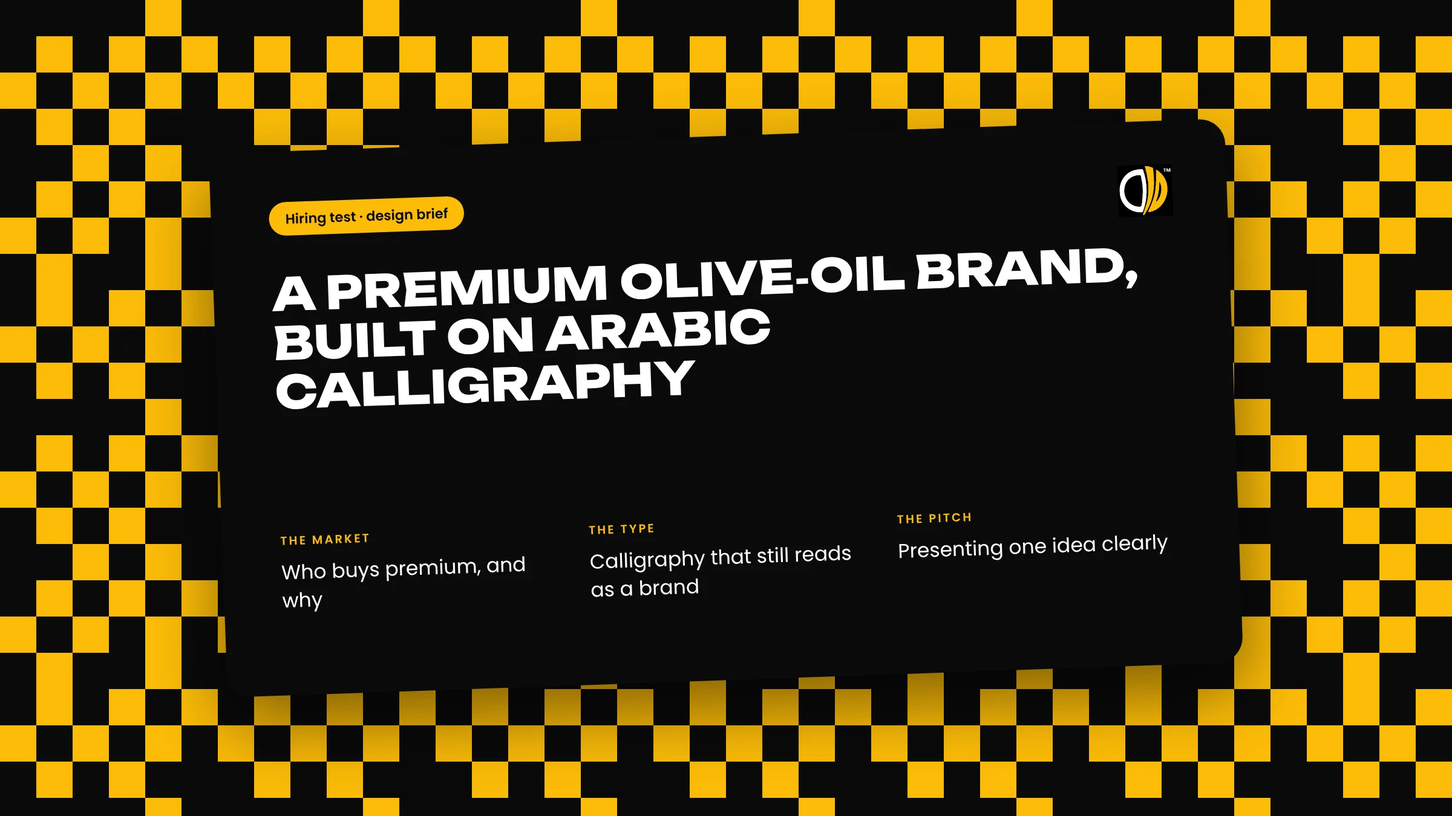
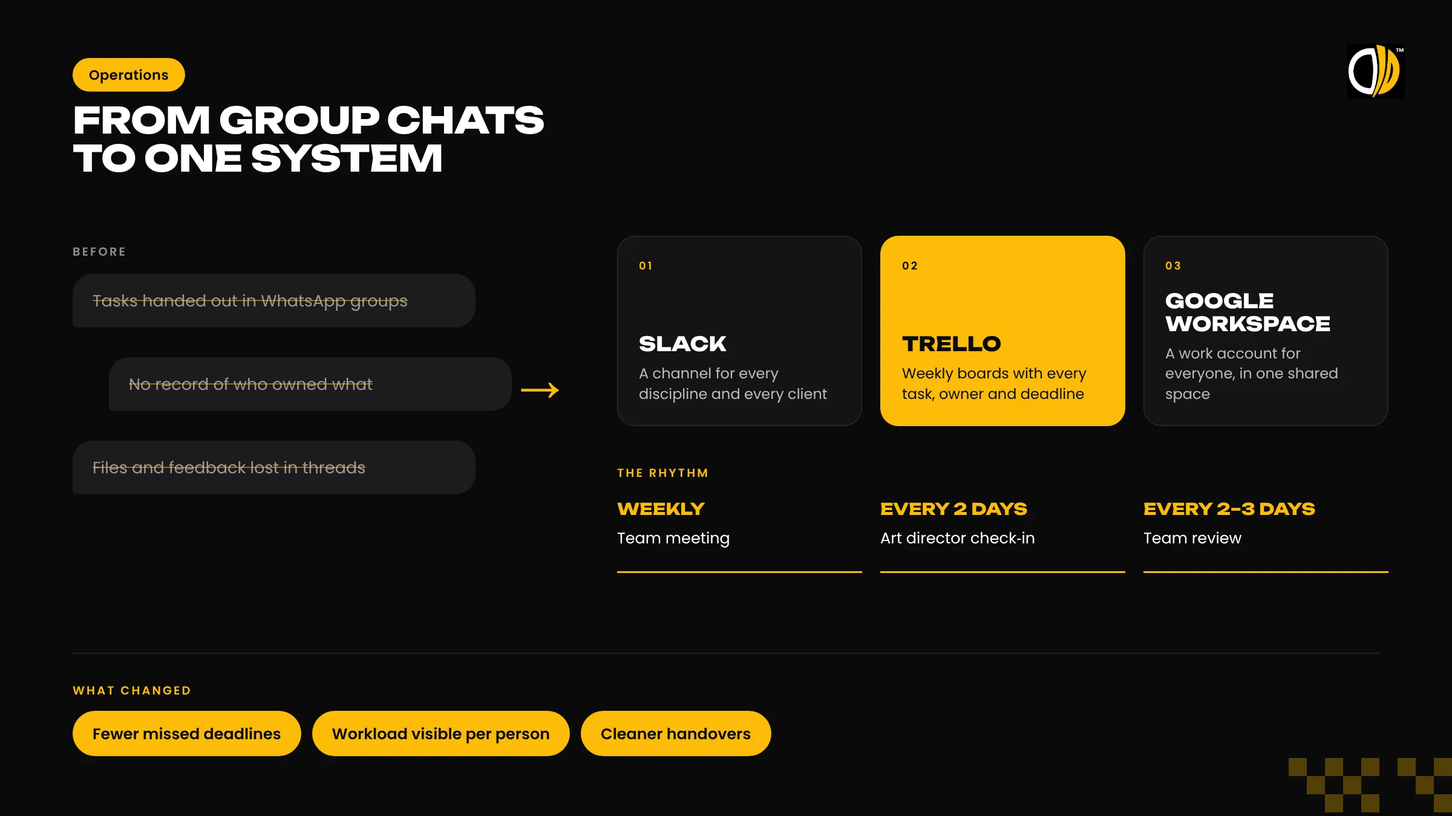
About and Overpowered: voice-led rewrite approved by Amr; drop outreach figure; align result bullets
Claude-Session: https://claude.ai/code/session_0137XXpZA3jAMF7ZDAPuorpn

diff --git a/lib/projects.ts b/lib/projects.ts
@@ -70,8 +70,8 @@ export const caseStudies: CaseStudy[] = [
   {
     slug: "overpowered",
     title: "Overpowered",
-    subtitle: tp("Turning a six-person studio into a 25-person agency in seven months"),
-    impactStatement: tp("Grew the team from 6 to 25 in seven months · Repositioned for small and mid-sized businesses · Won SPLT, a four-sided fitness platform, and led its product design"),
+    subtitle: tp("From a studio that served everyone to an agency that knew exactly who it was for"),
+    impactStatement: tp("Repositioned around the clients it served best · Team grown from six to twenty-five · Secured SPLT with a rebuilt proposal and led its design"),
     client: tp("Overpowered\nCreative & digital agency, London"),
     role: tp("Creative Director\nReported to the CEO · Team of 25"),
     teamSize: tp("Art directors plus graphic, video, 3D, copy and UX/UI teams"),
@@ -95,15 +95,15 @@ export const caseStudies: CaseStudy[] = [
       { title: "Identity & website direction", description: tp("Directed the new identity, dropped the gun imagery and tested visual elements in small Instagram campaigns in the UAE, the UK and Egypt. Then directed five website concepts with the team.") },
     ],
     results: [
-      tp("Grew the team from 6 to 25 people in seven months, across five disciplines"),
-      tp("Won SPLT, a four-sided fitness platform, with a rebuilt scope and cost, and led its product design"),
-      tp("Repositioned the agency for small and mid-sized businesses, with OP Labs for product buyers"),
-      tp("Moved delivery from WhatsApp to Slack, Trello and Google Workspace, with fewer missed deadlines"),
-      tp("Built an outreach system the team ran without me, tracked lead by lead in a CRM"),
-      tp("Replaced the brand with an identity that ran for about a year"),
-      tp("Refocused Alfy’s campaigns on the architects who buy marble, lifting social engagement 70%"),
+      tp("Repositioned the agency around the small and mid-sized businesses it served best, with OP Labs for product buyers"),
+      tp("Grew the team from six to twenty-five across five disciplines"),
+      tp("Secured SPLT with a rebuilt proposal, and led its product design"),
+      tp("Gave twenty-five people one way of working, across Slack, Trello and Google Workspace"),
+      tp("Built an outreach system the team could run on its own"),
+      tp("Retired the old brand for an identity that carried the agency for a year"),
+      tp("Refocused Alfy’s campaigns on the architects who choose marble, lifting social engagement by 70%"),
     ],
-    reflection: tp("I was hired to lead the creative work and spent half my time building the business around it. That half is what let the work get good. An agency does its best work once it knows who it serves, how it wins them and how its people work together."),
+    reflection: tp("I was brought in as a creative director and spent half my time on the business around the creative work. I wouldn’t change that. Great work rarely comes from talent alone. It comes when an agency knows who it serves, how to reach them and what standard it holds itself to, and then gives its people room to rise to it."),
     credits: tp("Creative Direction & Agency Strategy: Amr Abu-Talleb · Art Direction & Design: the Overpowered team"),
     featured: true,
     featureImage: "/images/op-hero-v1.webp",
@@ -117,32 +117,33 @@ export const caseStudies: CaseStudy[] = [
       {
         label: "The brief",
         paragraphs: [
-          tp("Overpowered was a six-person creative studio, registered in London and working across the UK, the UAE and Egypt. Its CEO wanted a full-service agency, and his first plan was a global operation of more than forty people from day one."),
-          tp("I advised against it before I joined. I modelled the first six to twelve months to breakeven and proposed an agency that would earn its way to that size. When the CEO was ready, he hired me as Creative Director, reporting to him, to build that agency without interrupting the client work that paid for it."),
+          tp("Overpowered was a small design studio, registered in London and working across the UK, the UAE and Egypt, led by an ambitious CEO who wanted a global agency of more than forty people. Our conversations began two years before I joined. Together we shaped a plan that would let the agency grow into that vision. I mapped what the first six to twelve months would cost before it could stand on its own, and proposed a path that scaled with its success."),
+          tp("When the CEO was ready, he invited me in as Creative Director, working directly with him, to build that agency while the studio kept serving its clients."),
         ],
       },
       {
-        label: "The audit",
+        label: "What I found",
         paragraphs: [
-          tp("I read the agency the way a buyer would. The homepage claimed ten years of product development and showed empty service cards. Six services, from branding to AI data analysis, were offered to anyone. The gun imagery that ran through the brand ruled out paid ads in the EU and put off the corporate clients the agency wanted in Dubai."),
-          tp("Inside, work was assigned and reported in WhatsApp groups, so nobody could see who owned what. There was no asset library, no hiring process, no outreach plan and no shared standard for good work."),
+          tp("I began the way a client would, by looking. The website promised ten years of design-driven product development, then showed empty service cards where the work should have been. It offered six services, from branding to AI data analysis, to anyone who might need them, under a headline about digital dominance that could have belonged to any studio. The brand leaned on gun imagery, which closed the door on paid advertising in the EU and on the corporate clients the agency hoped to win in Dubai."),
+          tp("Behind the scenes, the team took its tasks from WhatsApp groups, so no one could see who was doing what. There was no asset library, no hiring process, no plan for finding clients and no shared idea of what good work looked like."),
         ],
         figures: [
           { images: [{ src: "/images/op-fig-01-v5.webp", alt: tp("The audit: six findings beside the old Overpowered homepage and its empty service cards, December 2024") }], caption: tp("The site as I found it, December 2024.") },
         ],
       },
       {
-        label: "The call",
-        lead: tp("The problem wasn’t the logo. Overpowered was selling everything to everyone."),
+        label: "The turning point",
+        lead: tp("The problem wasn’t the logo. Overpowered was trying to be everything to everyone."),
         paragraphs: [
-          tp("So the brand would come last. First the agency needed a buyer, a focused offer and a way to win work beyond the CEO’s contacts. Each recommendation reached the CEO as an investment case, with its cost, the people it needed and what the next quarter would deliver."),
+          tp("A new identity would only have dressed up the same confusion. The agency first needed to know who it was for, what it did best and how it would find those clients on its own. Everything else, the brand included, would follow from those answers."),
+          tp("Every proposal I brought to the CEO came with its cost, the people it needed and what the next three months would look like, so each decision was one he could make with confidence."),
         ],
       },
       {
         label: "Positioning",
         paragraphs: [
-          tp("We chose small and mid-sized businesses because the agency could win them straight away. Word of mouth and the CEO’s network reached them in volume, and the strongest work in the portfolio was already for them. Their problems, brands that blended in and websites that didn’t convert, matched what the team did best."),
-          tp("The menu came down to branding, web and app, and video, with sites built on Webflow and Framer to fit SMB budgets. Product buyers got their own offer, OP Labs, because a CTO buys scope and architecture while a marketing lead buys distinction."),
+          tp("We chose small and mid-sized businesses, because that is where the agency was already strongest. Word of mouth and the CEO’s network reached them naturally, and most of our best work and case studies had been made for them. Their problems, brands that blended in and websites that didn’t convert, were the ones our team solved best."),
+          tp("So the long menu became three things we could do brilliantly: branding, web and app, and video. Websites moved to Webflow and Framer, which made them faster and more affordable for the clients we served. And because a CTO and a marketing lead want very different conversations, product work became its own offer, OP Labs, with its own voice and its own pitch."),
         ],
         figures: [
           { images: [{ src: "/images/op-fig-02-v3.webp", alt: tp("Positioning before and after: from digital dominance for anyone to more than ordinary for small and mid-sized businesses, three services, one process") }], caption: tp("Positioning, before and after.") },
@@ -152,39 +153,38 @@ export const caseStudies: CaseStudy[] = [
       {
         label: "Winning clients",
         paragraphs: [
-          tp("Stage one turned the agency’s existing reach into proof. The CEO worked his network, the agency posted twice a week on LinkedIn, Instagram and Facebook, released collaborative projects on Behance and Dribbble, and bid daily on Freelancer. Stage two built a pipeline we could measure, with targeted research, small paid tests and a CRM that tracked every lead."),
-          tp("SPLT came through the CEO’s network in that first stage, as a brief for a fitness store with an inflated development quotation. I rebuilt the scope and cost around what the business really needed, a platform for members, trainers, vendors and its own team. We won it, and I led its product design across the member app and three dashboards."),
-          tp("I wrote the outreach system so the team could run it without me. Every prospect saw three days of LinkedIn engagement before a first message, two openers were tested against each other, and five follow-ups came after, with separate scripts for OP and OP Labs. I joined the CEO on closing calls."),
+          tp("I wrote the growth plan in two stages. The first used what the agency already had to win early projects and build proof. That meant the CEO’s network, a steady rhythm of posts on LinkedIn, Instagram and Facebook, collaborative projects on Behance and Dribbble, and daily proposals on Freelancer. The second turned that proof into a pipeline we could measure, with research into the right clients, small paid campaigns and a CRM that followed every lead to a signed contract. Outreach became a sequence the team could run without me."),
+          tp("SPLT arrived through the CEO’s network in that first stage, as a brief for an online fitness store with a quotation that didn’t hold together. I rebuilt the scope and the cost around what the business truly needed, a platform where members, trainers and sellers each had a reason to stay. We won the project, and I led its product design."),
         ],
         figures: [
           { images: [{ src: "/images/op-fig-04-v5.webp", alt: tp("The two-stage go-to-market plan: the CEO’s network, social posts, Behance and Dribbble projects and Freelancer bids first, then paid ads and a CRM-tracked pipeline") }], caption: tp("Two stages, from proof to pipeline.") },
-          { images: [{ src: "/images/op-fig-05-v4.webp", alt: tp("The outreach sequence: three-day warm-up, A/B first message, five follow-ups, closing call with the CEO") }], caption: tp("The outreach sequence, run for every lead.") },
         ],
       },
       {
         label: "The team",
         paragraphs: [
-          tp("The studio grew from six people to 25 across graphic, video, 3D, copy and UX/UI. Two art directors led the creative teams, one across branding and the other across video, 2D and 3D, while UX/UI and copy reported to me. Hiring, promotions and reviews were mine."),
-          tp("I hire for integrity first and the will to learn second. Skills can be sharpened. Anything else can be fixed. I wrote the hiring test, a premium olive-oil brand built on Arabic calligraphy, reviewed every candidate and promoted one of our designers to Art Director."),
+          tp("Over seven months the studio grew from six people to twenty-five, across graphic design, video, 3D, copy and UX/UI. Two art directors led the creative teams, one shaping branding and the other video, 2D and 3D, while UX/UI and copy worked with me directly."),
+          tp("I hire for integrity first and the will to learn second, because skills can be sharpened and anything else can be fixed. I wrote our hiring test myself, a brief for a premium olive-oil brand built on Arabic calligraphy, reviewed every candidate, and had the joy of promoting one of our designers to Art Director."),
         ],
         figures: [
           { images: [{ src: "/images/op-fig-06-v5.webp", alt: tp("Org chart: CEO, Creative Director, an art director for branding over graphic, an art director for video over video and 3D, and UX/UI and copy reporting directly") }], caption: tp("Team structure. Roles only.") },
         ],
       },
       {
-        label: "Operations",
+        label: "How we worked",
         paragraphs: [
-          tp("Twenty-five people can’t run on group chats, so I moved the agency onto one system. The CEO set up a Google Workspace account for everyone, and all work lived in one shared space. Each discipline and client got a Slack channel. Every task, owner and deadline went onto weekly Trello boards, so I could see each person’s load before assigning more."),
-          tp("A fixed rhythm held it together. The whole team met weekly, I checked in with the art directors every two days, and every two or three days the team reviewed its work, with me speaking last. Fewer deadlines slipped and handovers stopped getting lost."),
+          tp("A team of twenty-five can’t run on group chats, so I gave it one place to work. Everyone received a Google Workspace account, each discipline and client got its own Slack channel, and every task, owner and deadline lived on weekly Trello boards, where I could see each person’s load before asking more of them."),
+          tp("The whole team met every week, I sat with the art directors every two days, and every few days the team shared its work for review. Deadlines slipped less often, handovers stopped getting lost, and people could focus on the work itself."),
         ],
         figures: [
-          { images: [{ src: "/images/op-fig-07-v1.webp", alt: tp("Operations: from tasks in WhatsApp groups to Slack, weekly Trello boards and Google Workspace, with a weekly meeting, art director check-ins every two days and reviews every two to three days") }], caption: tp("From group chats to one system.") },
+          { images: [{ src: "/images/op-fig-07-v2.webp", alt: tp("How we worked: from tasks in WhatsApp groups to Slack, weekly Trello boards and Google Workspace, with a weekly meeting, art director check-ins every two days and team reviews every two to three days") }], caption: tp("From group chats to one system.") },
         ],
       },
       {
         label: "Identity",
         paragraphs: [
-          tp("With the business defined, I directed the new identity. The gun imagery went. In its place came a connected O and P, logo variations, an OP Labs lock-up, one palette, one type scale and a pattern drawn from the logo’s geometry. We tested its elements in small Instagram campaigns in the UAE, the UK and Egypt before committing, and it ran across the agency’s social, proposals and materials for about a year."),
+          tp("With the agency clear about who it was, we could finally give it a face. I directed the new identity with the team and retired the gun imagery for good. In its place came a connected O and P, a family of logo variations, an OP Labs lock-up, one palette, one type scale and a pattern drawn from the logo’s own geometry."),
+          tp("We tested its elements in small Instagram campaigns in the UAE, the UK and Egypt before committing, and the identity carried the agency for about a year."),
         ],
         figures: [
           { images: [{ src: "/images/op-fig-09-v2.webp", alt: tp("Pages from the January 2025 brand guidelines: logomark, logo variations, OP Labs lock-up, colour, type and pattern") }], caption: tp("From the January 2025 brand guidelines.") },
@@ -195,7 +195,8 @@ export const caseStudies: CaseStudy[] = [
       {
         label: "The website",
         paragraphs: [
-          tp("The website waited for the work, because a new site without new case studies would have repeated the old problem. I led five concepts with the team and took the strongest into a cinematic story in four acts, briefing the UI/UX, graphic, motion and 3D teams and reviewing each section with the art directors."),
+          tp("The agency’s own website had to tell this new story. Rather than another agency showcase, I wanted visitors to feel Overpowered before they read a word about it. I explored five directions with the team, each a different way into the same story, from a site that powers up like a game to a command center for the client’s brand."),
+          tp("The strongest grew into a cinematic story in four acts. I wrote the briefs for the UI/UX, graphic, motion and 3D teams and shaped it with the art directors, section by section."),
         ],
         figures: [
           { images: [{ src: "/images/op-concept-1-v1.webp", alt: tp("Concept 01, Power Up: Power up your brand, with a charging bar that unlocks branding, web, video, the squad and results"), ratio: "16 / 10" }, { src: "/images/op-concept-4-v1.webp", alt: tp("Concept 04, Forge and Conquer: Forged to conquer, over the logomark glowing on an anvil"), ratio: "16 / 10" }] },

diff --git a/app/(site)/about/page.tsx b/app/(site)/about/page.tsx
@@ -31,29 +31,29 @@ export default function AboutPage() {
           </FadeIn>
           <FadeIn delay={0.1}>
             <p className="mb-12 max-w-[60ch] text-xl leading-relaxed text-foreground">
-              {tp("I’m Amr Abu-Talleb, a creative director with thirteen years of building brands, products and the teams that make them, across eight markets and two scripts. I started as a calligrapher and illustrator, and I still judge work the way I learned to judge a letter, by whether every mark earns its place.")}
+              {tp("I’m Amr Abu-Talleb, and my first medium was the pen. Long before I led teams, I spent years drawing Arabic and Latin letters by hand, learning how the weight of a stroke and the space between two letters change the way a word feels. That is where I discovered that typography behaves like a filmmaker’s camera. It sets the mood, controls the pace and tells the story before anyone reads a word. I still hold every project to a calligrapher’s standard, where nothing is decorative and nothing is accidental. Only the canvas has grown.")}
             </p>
           </FadeIn>
 
           {/* Full Bio */}
           <FadeIn delay={0.15} as="div" className="flex max-w-[62ch] flex-col gap-6 text-[1.0625rem] leading-[1.75] text-muted-foreground">
             <p>
-              {tp("I’ve led teams of up to 25 for clients in Egypt, the Gulf, the UK, the US, Australia and Singapore. At Overpowered I turned a six-person studio into a 25-person agency in seven months, after first talking its CEO out of opening with forty. I rebuilt a fitness platform’s scope and cost before a single screen existed and won the contract with it. I rebuilt Agfin’s website around a sharper sales story, and sales rose 12% in the first month with no ad spend. And I designed a 212-page book for Steve Hodel, the former LAPD detective who spent decades investigating his own father.")}
+              {tp("Thirteen years on, I lead brand, campaign and product teams of up to twenty-five people, for clients in Egypt, the Gulf area, the UK, the US, Australia and Singapore. I helped a small design studio discover who it was really for and built the agency around that answer, with a growth plan that let it scale at its own pace. I rebuilt a client’s development proposal line by line, before a single screen existed, and won the project with it. And I designed a 212-page book for Steve Hodel, the former LAPD detective who spent decades investigating his own father. That one stays with me.")}
             </p>
             <p>
-              {tp("Most of my job now is the system the work runs through. Briefs go to the people with the capacity and strengths for them, and every task, owner and deadline sits where the whole team can see it. Every two or three days the team presents its work, the art directors guide and I speak last. I step in when the work drifts from the brand, from what users need or from what makes the client money.")}
+              {tp("Much of my work now is building the system the work flows through. I decide which brief goes to which designer, based on their capacity and what they do best, and I learn how many rounds each person needs before their strongest idea appears. I shape how work travels from one desk to the next, and how it reaches the client, staged, shown, approved and refined. Every few days the team puts its work on the wall. Everyone presents, the others say what is working and what isn’t, the art directors guide, and I speak last, so the team’s judgement grows before mine is heard. I step in when the work drifts from the brand or from the people it is meant for.")}
             </p>
             <p>
-              {tp("I still think like an artist. I just don’t stop there. Art can mean something without a purpose. Design has a purpose, and you can measure whether it works. I push designers to find the idea in their own life and values and take it as far as they like, provided people understand it and it does its job.")}
+              {tp("I am still an artist at heart, and I bring that into every brief. Art can exist for its own sake. Design has to work, for the people who meet it and for the business behind it. The best work lives where the two meet, and that is where I lead my teams. I encourage designers to draw their ideas from their own lives and values and push them as far as their imagination will carry them, then shape them until they are clear, true to their audience and doing their job.")}
             </p>
             <p>
-              {tp("I work as a typographer and calligrapher in Arabic and English, and I’ve built identities that carry both scripts and still sound like one brand. AI sits in the same toolbox as the brush and the pen tool. It handles the repetitive work and the research, never the idea, and it lets the team test several directions before we finish the best one by hand.")}
+              {tp("I work in Arabic and English, as a typographer and calligrapher in both, and I’ve built identities that carry two scripts while speaking with one voice. AI sits in my toolbox beside the brush and the pen tool. It takes on the repetition and the research, never the idea. I bring the thinking, it gives the team more ways to explore it, and we test several directions before finishing the strongest one by hand.")}
             </p>
             <p>
-              {tp("What I’m proudest of doesn’t fit in a portfolio. I’ve hired more than fifty people, for integrity first and the will to learn second, and some of the designers I hired now run teams of their own. Skills can be sharpened. Anything else can be fixed.")}
+              {tp("What I’m proudest of doesn’t fit in a portfolio. I’ve hired more than fifty people, and some of the designers I hired now lead teams of their own. I hire for integrity first and the will to learn second. Skills can be sharpened. Anything else can be fixed.")}
             </p>
             <p className="font-medium text-foreground">
-              {tp("Today I lead a 25-person team across design, product, video, support and PR, with five or six projects live at once and the numbers reviewed every quarter. The next team I build will be in Europe.")}
+              {tp("Today I lead a team of twenty-five across design, product, video, support and PR, with five or six projects in motion at once. The next team I build will be in Europe.")}
             </p>
           </FadeIn>
 

diff --git a/app/(site)/page.tsx b/app/(site)/page.tsx
@@ -22,7 +22,7 @@ const stats = [
 ]
 
 const caseStudyCards = [
-  { slug: "overpowered", num: "01", title: "Overpowered", subtitle: tp("Turning a six-person studio into a 25-person agency in seven months"), impact: tp("Grew the team from 6 to 25 in seven months · Won SPLT and led its product design"), category: "Agency Leadership & Strategy", year: "2024\u20132025", role: "Creative Director \u00B7 Team of\u00A025", featureImage: "/images/op-hero-loop-poster-v1.webp", featureImageAlt: "The OP logomark as a giant glass sculpture floating above a hill", featureVideo: "/videos/op-hero-loop-v1.mp4" },
+  { slug: "overpowered", num: "01", title: "Overpowered", subtitle: tp("From a studio that served everyone to an agency that knew exactly who it was for"), impact: tp("Repositioned around the clients it served best · Team grown from six to twenty-five"), category: "Agency Leadership & Strategy", year: "2024\u20132025", role: "Creative Director \u00B7 Team of\u00A025", featureImage: "/images/op-hero-loop-poster-v1.webp", featureImageAlt: "The OP logomark as a giant glass sculpture floating above a hill", featureVideo: "/videos/op-hero-loop-v1.mp4" },
   { slug: "bay-area-trips", num: "02", title: "Bay Area Trips", subtitle: tp("Turning a sprawling travel idea into one product for four audiences"), impact: tp("Web, mobile web and app as one system · Four account types · Live product"), category: "Product Strategy & UX", year: "2023\u20132025", role: tp("Product Strategist & Designer · Team of about 30"), featureImage: "", featureImageAlt: "" },
   { slug: "split", motion: "splt-reel", num: "02", title: "SPLT", subtitle: "Turning a\u00A0marketplace brief into a\u00A0four-sided fitness\u00A0platform", impact: "Won the contract with a\u00A0rebuilt scope and\u00A0cost \u00B7 330+\u00A0screens across 4\u00A0roles \u00B7 Trainer subscriptions as\u00A0a\u00A0new revenue\u00A0line", category: "UX/UI Product Design", year: "2025", role: "Creative Director & UX Lead \u00B7 Led 2\u00A0designers", featureImage: "/images/split-card-v2.webp", featureImageAlt: "SPLT trainer dashboard beside the trainer profile and subscription plans in the app" },
   { slug: "taptools", num: "04", title: "TapTools", subtitle: tp("Redesigning a data-heavy analytics dashboard so users see what matters first"), impact: tp("23% fewer user-reported issues in 60 days · Helped secure the next funding round"), category: "UX Research & Product Design", year: "2022\u20132023", role: "Senior Product Designer", featureImage: "", featureImageAlt: "" },

diff --git a/components/case-study-layout.tsx b/components/case-study-layout.tsx
@@ -386,7 +386,7 @@ export default function CaseStudyLayout({
               <ul className="flex flex-col gap-4">
                 {project.results.map((result) => (
                   <li key={result.slice(0, 30)} className="flex gap-3 text-muted-foreground">
-                    <span className="mt-1.5 h-1.5 w-1.5 flex-shrink-0 rounded-full bg-accent" />
+                    <span className="mt-[calc(0.875em-3px)] h-1.5 w-1.5 flex-shrink-0 rounded-full bg-accent" />
                     <span className="leading-[var(--leading-longform)]">{result}</span>
                   </li>
                 ))}
